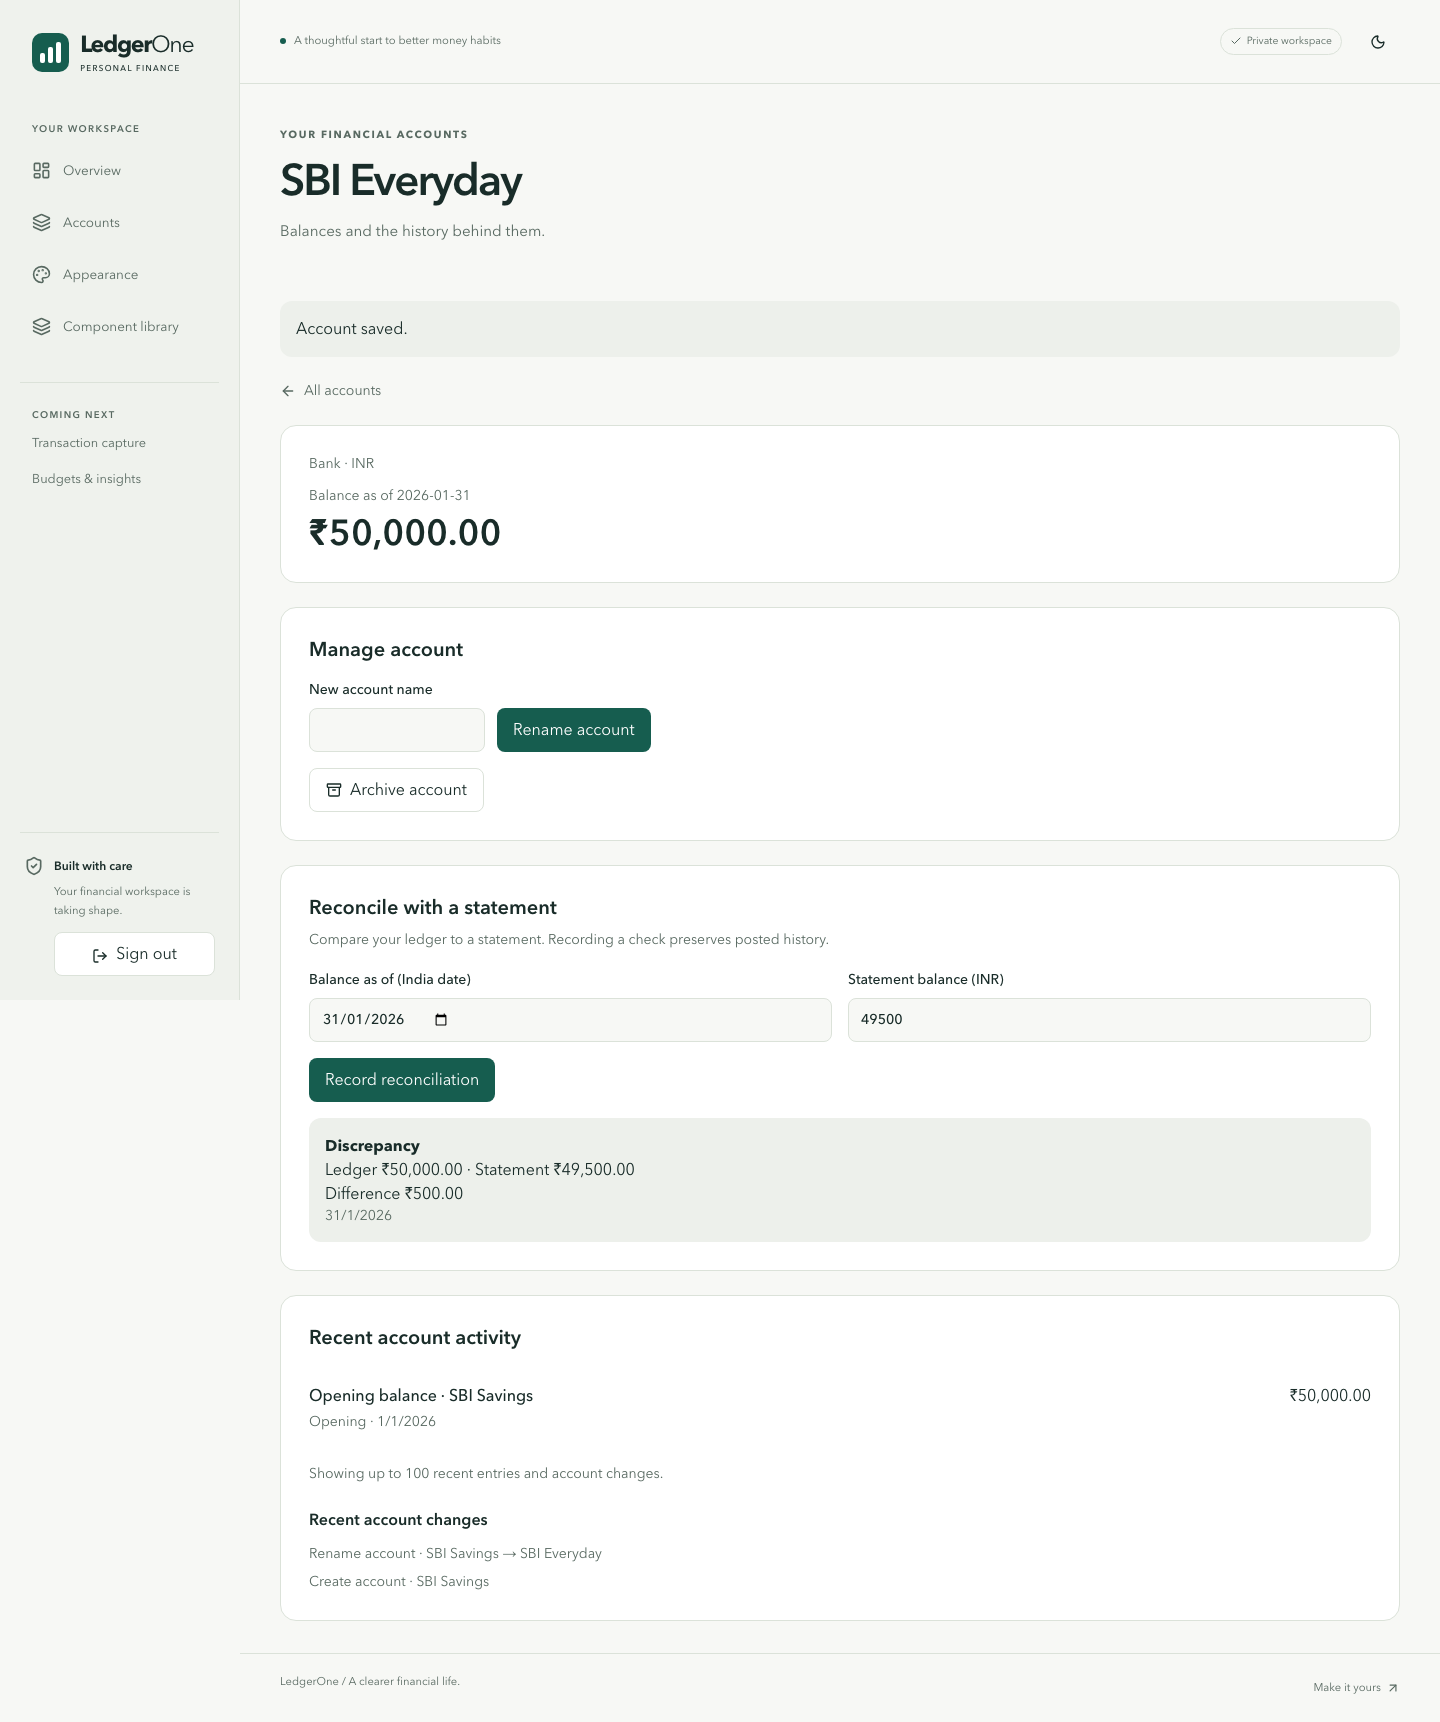
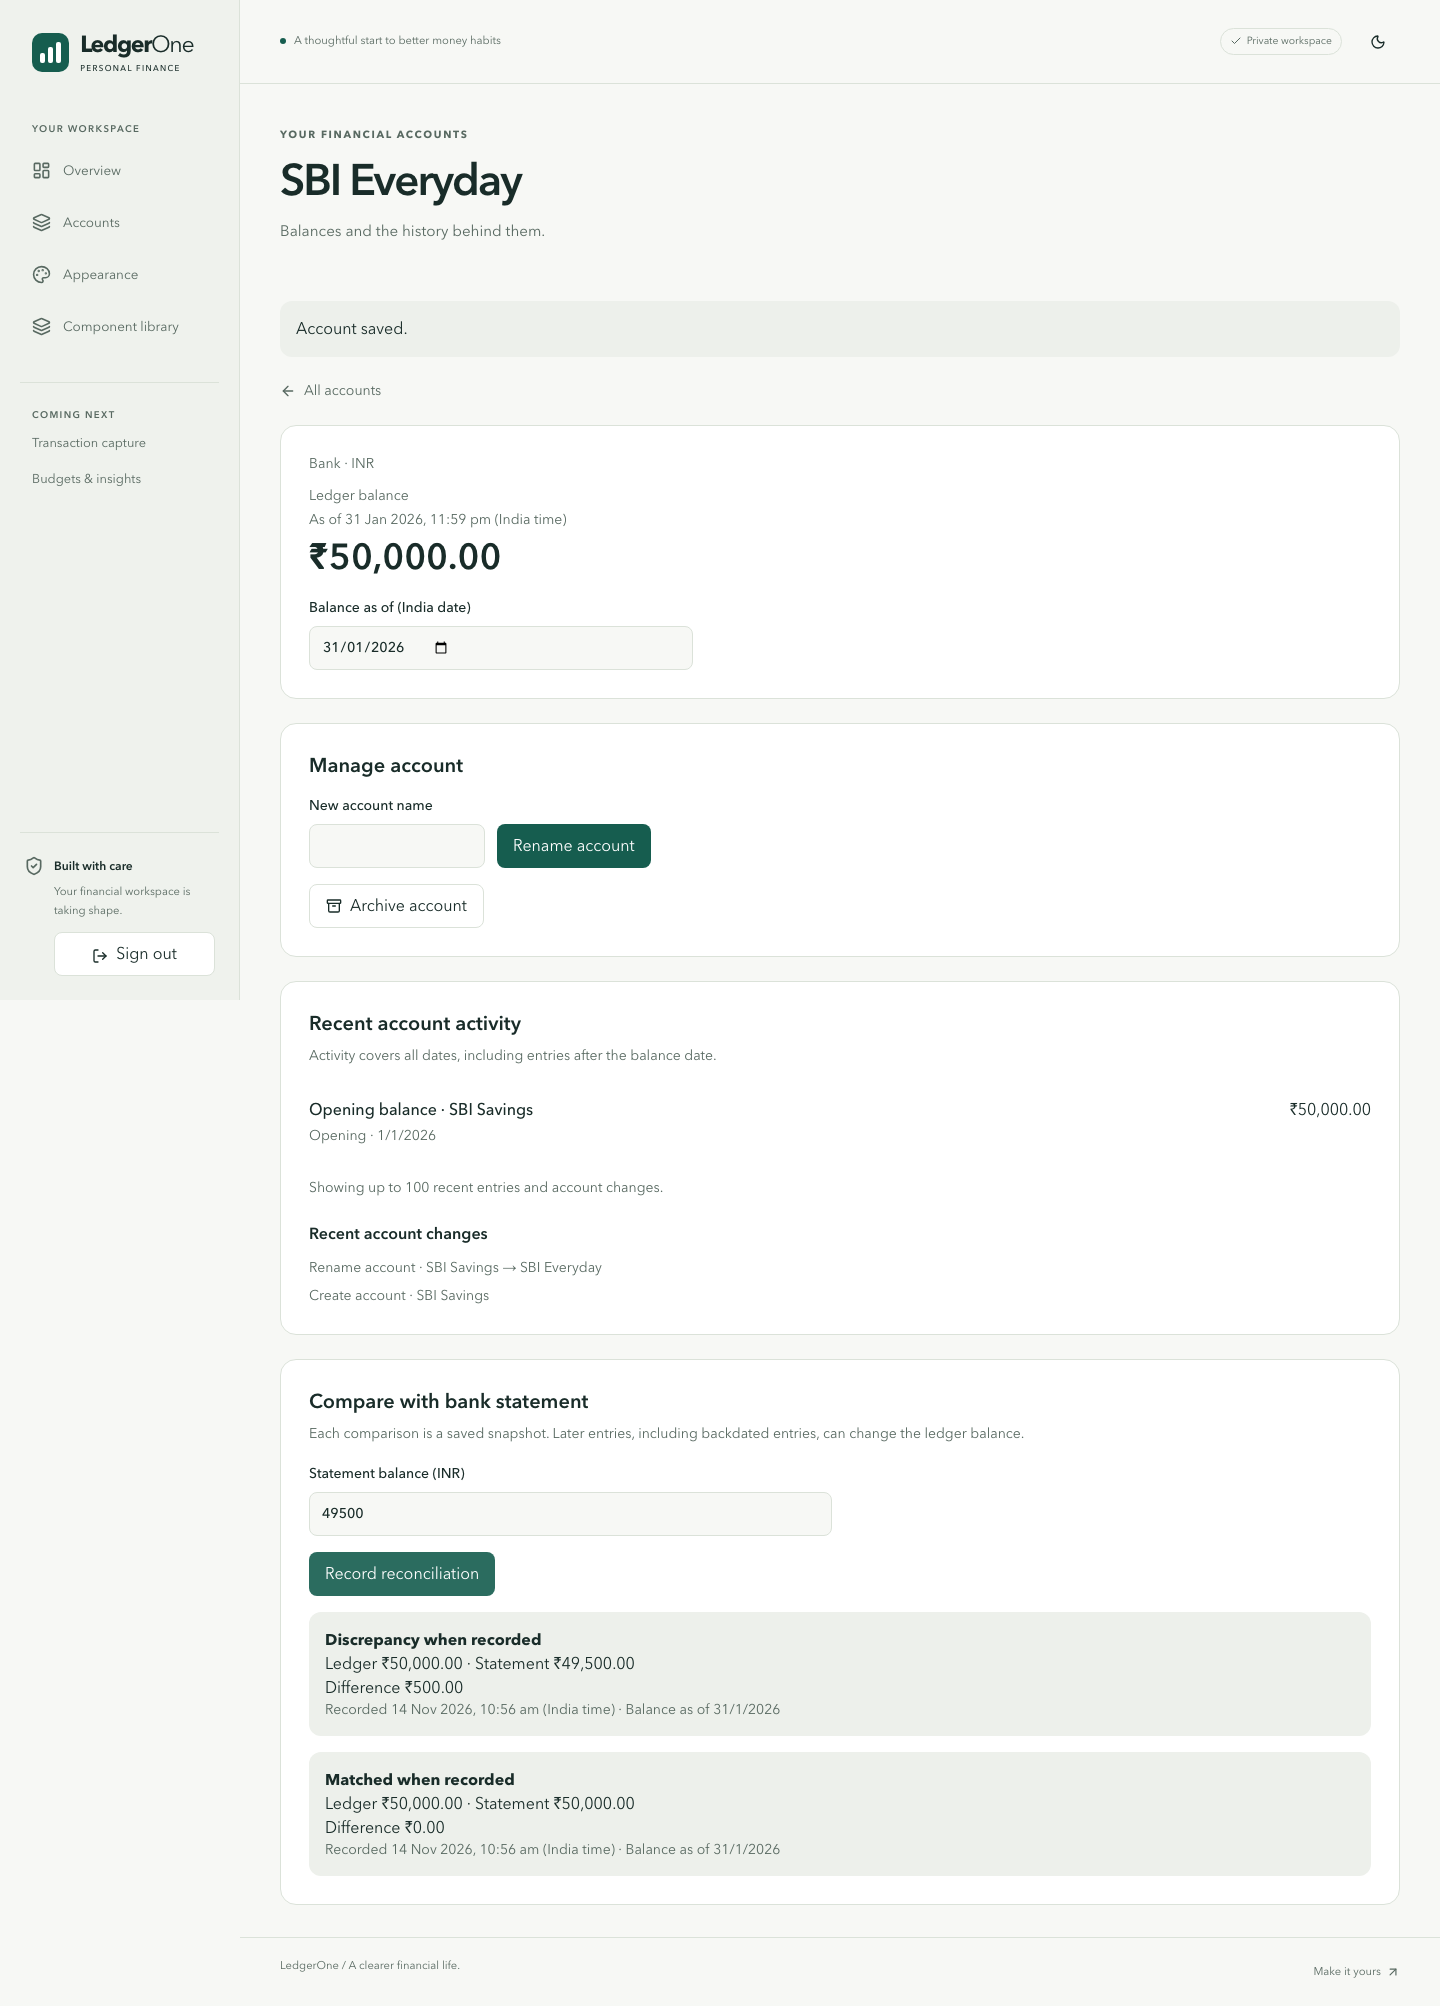
docs(S07): preserve approved roadmap and refresh presentation evidence

diff --git a/docs/reports/P1-S07.md b/docs/reports/P1-S07.md
@@ -58,3 +58,9 @@ Both initial CI runs at4c89d04 failed to start the browser server because CI sup
 Author review identified UI result-recovery finding #36. At4c89d04, after a lost creation response, changed form input could replace the retained key and create a duplicate intended account. b6e8750 preserves the pending body/key/workspace, blocks changed-input writes until recovery and provides an explicit authorized same-key recovery action. A real browser regression forwards the actual create, observes201, drops the acknowledgement, changes the amount, proves no second create is sent, recovers the original amount and verifies one account/marker. The focused desktop/mobile suite passed4/4. The first regression attempt had an ambiguous alert selector because Next also renders an alert landmark; narrowing to the pending-result message preserves all financial/count assertions. #36 remains open pending reviewed incorporation.
 
 Final full-pipeline and exact publication CI results for the corrected source are recorded on PR #35. The earlier234/281/50 result above remains a historical passing checkpoint and is not substituted for corrected-source verification.
+
+## Presentation amendments after independent AI source review
+
+The owner supplied independent AI source review at24c9545, finding no confirmed material blocker within the inspected local scope. No human or native GitHub approval is inferred. The targeted follow-up moves “Compare with bank statement” below recent account activity and keeps balance-as-of selection beside the displayed balance. Activity explicitly covers all dates, including entries after that balance cutoff. Each comparison reads “Matched when recorded” or “Discrepancy when recorded”, with the existing immutable createdAt timestamp and separate effective balance date. Read queries only add createdAt to the event projection. No new calculation/engine, financial mutation or migration changes.
+
+The real browser regression selects a date preceding the opening, proves balance zero while the later opening remains visibly labeled all-date activity, verifies the comparison section follows activity in DOM order, and records both a matched and discrepant snapshot with recorded-time captions. Desktop/mobile account and recovery scenarios passed4/4, with typecheck/build; initial compilation caught and corrected the client response type for the existing asOf field. Updated screenshot evidence accompanies the patch. Full required CI is recorded on the final publication head. Original P1-E3/P1-E4 requirements are preserved, including every approved S08 command and S09 financial gate.

diff --git a/docs/PROGRESS.md b/docs/PROGRESS.md
@@ -574,3 +574,9 @@ Typed Accounts overview/lifecycle/opening/history/reconciliation UI is implement
 ## S07 pending-result and browser-runner corrections
 
 #36 tracks a confirmed UI idempotency risk after a lost response and edited input. b6e8750 preserves the pending request and offers exact same-key recovery; real desktop/mobile response-loss regression passed4/4 alongside the normal walkthrough. Initial4c89d04 CI rejected the fixed browser database name at the local capability guard. f3038dc prepares a generated shared disposable browser database and retains loopback/test-only restrictions. Final complete checks and corrected-head CI remain required. PR #35 stays draft; no S07/P1-E3 closure or production activation is claimed.
+
+## S07 targeted presentation review amendments
+
+The owner supplied an independent AI source review of 24c9545f2d1320c9c4531349bdaf54cdd289a3fa with no confirmed material blocker in the inspected restricted local scope. This is not native GitHub approval or human security certification. The requested delta moves statement comparison below activity, keeps the balance cutoff beside the balance, labels activity as all-date activity, and labels each immutable comparison with its recorded time and balance cutoff. No accounting mutation, migration, reconciliation engine or adjustment was changed.
+
+Focused actual desktop/mobile account and recovery tests passed 4/4 after typecheck/build. Updated screenshots show the secondary comparison placement and snapshot labels. Final publication CI remains required. The original S05–S09 inputs, tasks, outputs and acceptance criteria remain authoritative. S07 includes accounts/opening/reconciliation/as-of; S08 retains cash/card expense, income, transfer, card settlement and loan principal/interest with entry/history UI; S09 retains backend invariants/isolation/reproducible gate evidence. No expense-only replacement or additional UI for backend-only stories is introduced.

diff --git a/docs/evidence/s07/WALKTHROUGH.md b/docs/evidence/s07/WALKTHROUGH.md
@@ -17,3 +17,7 @@ These screenshots come from the real Next application with a verified synthetic 
 ![Desktop reconciliation and original history](desktop-reconciliation.png)
 
 Mobile screenshots are linked in the table to keep the walkthrough compact. The corresponding browser test is tests/e2e/accounts.spec.ts. Full local result is 234 unit / 281 integration / 50 browser, recorded in the S07 report. Hosted verification, production writes and reviewed merge remain separate gates.
+
+## Presentation review delta
+
+Statement comparison is below recent activity. Balance-as-of selection sits beside the balance. The browser test selects a cutoff before the opening and verifies a zero historical balance while the later opening remains clearly labeled as all-date activity. Saved comparisons show both their recorded time and effective balance date, with “when recorded” status labels. The updated desktop/mobile detail screenshots include both a matched snapshot and a discrepancy snapshot.
